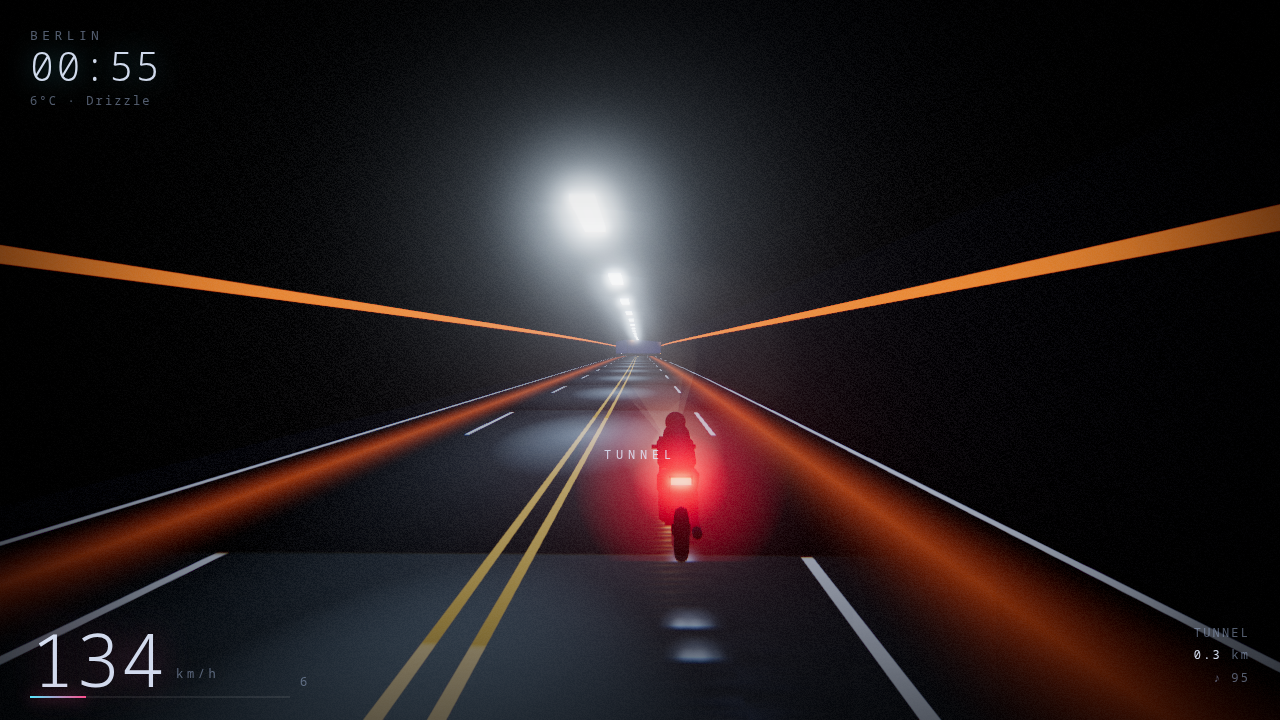
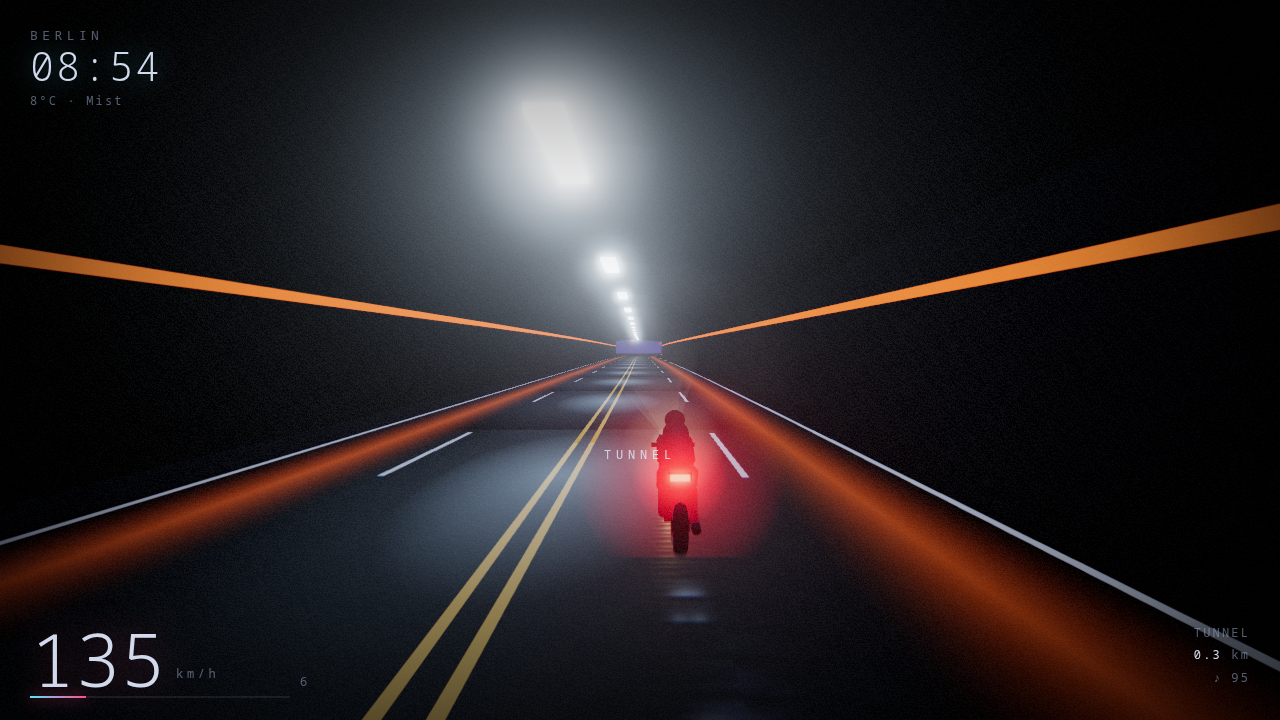
Fixes

diff --git a/src/bike.js b/src/bike.js
@@ -118,12 +118,18 @@ export class Bike {
     const torso = add(new THREE.CapsuleGeometry(0.17, 0.34, 4, 10), rider, 0, 1.13, 0.24, -0.62);
     torso.scale.set(1, 1, 0.8);
     this.head = add(new THREE.SphereGeometry(0.135, 12, 10), rider, 0, 1.4, -0.06);
-    add(new THREE.SphereGeometry(0.118, 12, 10), visor, 0, 1.395, -0.11);
+    const visorMesh = add(new THREE.SphereGeometry(0.118, 12, 10), visor, 0, 1.395, -0.11);
+    const arms = [];
     for (const dx of [-0.19, 0.19]) {
-      add(new THREE.CapsuleGeometry(0.055, 0.42, 3, 6), rider, dx, 1.02, 0.02, -1.15); // arms
+      arms.push(add(new THREE.CapsuleGeometry(0.055, 0.42, 3, 6), rider, dx, 1.02, 0.02, -1.15));
       add(new THREE.CapsuleGeometry(0.085, 0.3, 3, 6), rider, dx * 0.9, 0.74, 0.38, 0.7); // thighs
       add(new THREE.CapsuleGeometry(0.06, 0.26, 3, 6), rider, dx * 0.95, 0.5, 0.5, -0.2); // shins
     }
+
+    /* In first person the camera sits where the rider's head is, so the head
+       and the visor wrap around the lens — you end up looking at the inside of
+       a blue sphere. Legs and the bike itself stay: they are what you'd see. */
+    this.hiddenInFirstPerson = [torso, this.head, visorMesh, ...arms];
 
     /* ── lights ─────────────────────────────────────────── */
     this.headMat = new THREE.MeshBasicMaterial({ color: neon(0xfff0d8, 4), toneMapped: false });
@@ -187,10 +193,20 @@ export class Bike {
     this.spray.frustumCulled = false;
     this.lean.add(this.spray);
 
+    this.firstPerson = false;
     this.leanAngle = 0;
     this.steerAngle = 0;
     this.wheelSpin = 0;
     this.bob = 0;
+  }
+
+  /** Hide the parts of the rider that the camera would otherwise be inside. */
+  setFirstPerson(on) {
+    if (this.firstPerson === on) return;
+    this.firstPerson = on;
+    for (const m of this.hiddenInFirstPerson) m.visible = !on;
+    // and the beam volumes, whose apex is right under the lens
+    for (const b of this.beams) b.visible = !on;
   }
 
   update(dt, st) {

diff --git a/src/props.js b/src/props.js
@@ -162,7 +162,7 @@ function streetLamp(ctx, s, side) {
 
   // pool of light on the wet tarmac, stretched down the road
   const p = ctx.at(s, lat - side * 3.0, 0.02);
-  ctx.pool(LAMP_WARM, 0.5).decal(p, ctx.right(s), ctx.forward(s), 15, 32, 0.02);
+  ctx.pool(LAMP_WARM, 0.42).decal(p, ctx.right(s), ctx.forward(s), 14, 24, 0.02);
 }
 
 function guardrail(ctx, side) {
@@ -253,8 +253,8 @@ function city(ctx) {
         ctx.halo(new THREE.Vector3(c.x, c.y + h - 0.6, c.z), 0xff2a2a, 3.2, 0.5);
       }
 
-      // street-level neon
-      if (rnd() < 0.55) {
+      // street-level neon, and its reflection on the wet road below
+      if (rnd() < 0.5) {
         const hex = NEON_PALETTE[(rnd() * NEON_PALETTE.length) | 0];
         const ny = 3 + rnd() * (Math.min(h, 26) - 3);
         const np = ctx.at(s + (rnd() - 0.5) * 6, lat - side * (depth / 2 + 0.35), 0);
@@ -263,9 +263,14 @@ function city(ctx) {
         const sh = vertical ? 3 + rnd() * 5 : 0.7;
         ctx.emit(hex, 3.2).box(np.x, np.y + ny, np.z, sw, sh, 0.3, yaw);
         ctx.halo(new THREE.Vector3(np.x, np.y + ny, np.z), hex, Math.max(sw, sh) * 2.4, 0.42);
-        // its reflection, smeared across the wet road
-        const rp = ctx.at(s, side * (ROAD_HALF - 1.5 - rnd() * 3), 0.02);
-        ctx.pool(hex, 0.42).decal(rp, ctx.right(s), ctx.forward(s), 9, 30, 0.02);
+        /* Only some of them reach the road. Every sign casting a pool meant
+           half a dozen overlapping on the same stretch, and additive blending
+           piled them into a saturated slab with a hard rim — which reads as a
+           painted rectangle, not as a reflection. */
+        if (rnd() < 0.45) {
+          const rp = ctx.at(s, side * (ROAD_HALF - 1.5 - rnd() * 3), 0.02);
+          ctx.pool(hex, 0.26).decal(rp, ctx.right(s), ctx.forward(s), 8, 22, 0.02);
+        }
       }
       d += w + 2 + rnd() * 10;
     }

diff --git a/src/timeofday.js b/src/timeofday.js
@@ -16,8 +16,8 @@ export function nightHourFromLocal(date = new Date()) {
 
 const KEYS = [
   // t is "hours since 18:00", so 25 = 01:00, 30 = 06:00
-  { t: 18.0, top: 0x0a1030, bot: 0x412454, glow: 0xff6a3d, fog: 0x241a3a, dens: 0.0052, amb: 0.34, moon: 0.25, stars: 0.15, city: 0.55 },
-  { t: 20.0, top: 0x05081c, bot: 0x171438, glow: 0xff3f72, fog: 0x121028, dens: 0.0060, amb: 0.24, moon: 0.45, stars: 0.55, city: 0.9 },
+  { t: 18.0, top: 0x0a1030, bot: 0x412454, glow: 0xe0663f, fog: 0x241a3a, dens: 0.0052, amb: 0.34, moon: 0.25, stars: 0.15, city: 0.55 },
+  { t: 20.0, top: 0x05081c, bot: 0x171438, glow: 0xd4436b, fog: 0x121028, dens: 0.0060, amb: 0.24, moon: 0.45, stars: 0.55, city: 0.9 },
   { t: 22.0, top: 0x03040e, bot: 0x0a0c20, glow: 0x3a2f6e, fog: 0x080a18, dens: 0.0066, amb: 0.18, moon: 0.7, stars: 0.9, city: 1.0 },
   { t: 25.0, top: 0x01020a, bot: 0x050714, glow: 0x1b1f45, fog: 0x04050e, dens: 0.0072, amb: 0.13, moon: 0.85, stars: 1.0, city: 0.75 },
   { t: 28.0, top: 0x02040f, bot: 0x0a1026, glow: 0x27356c, fog: 0x070a18, dens: 0.0068, amb: 0.16, moon: 0.6, stars: 0.8, city: 0.5 },

diff --git a/src/main.js b/src/main.js
@@ -267,7 +267,10 @@ function drive(dt, c) {
   /* the corner throws you toward the outside line */
   const k = road.curvature(state.s);
   state.lat -= k * state.v * state.v * 0.16 * dt;
-  state.lat = clamp(state.lat, -12.5, 12.5);
+  /* You can put a wheel on the verge, but not drive out across the field: the
+     bike rides at road height and the ground beside it is a metre lower, so
+     far off the tarmac it visibly floats. The drag out here does the rest. */
+  state.lat = clamp(state.lat, -9.6, 9.6);
 
   const ds = state.v * dt;
   state.s += ds;
@@ -487,6 +490,7 @@ function frame() {
   const p = road.poseAt(state.s);
   bike.setPose(tmpA, p.h, p.pitch);
   const offRoad = Math.abs(state.lat) > ROAD_HALF + SHOULDER;
+  bike.setFirstPerson(state.camMode === 3 && !photo.active);
   bike.update(simDt, {
     speed: state.v,
     steer: state.steer,

diff --git a/src/assets.js b/src/assets.js
@@ -173,7 +173,9 @@ export function assets() {
     // a touch of self-illumination so building masses read against the sky
     dark: new THREE.MeshStandardMaterial({
       color: 0x090a10, roughness: 0.85, metalness: 0.25,
-      emissive: 0x080b16, emissiveIntensity: 1, envMapIntensity: 0.35,
+      // low enough that walls stay silhouettes: at higher values a flat face
+      // picks up the whole sky and reads as an untextured purple panel
+      emissive: 0x080b16, emissiveIntensity: 1, envMapIntensity: 0.16,
     }),
     foliage: new THREE.MeshStandardMaterial({ color: 0x080f0d, roughness: 1.0, metalness: 0.0 }),
     water: new THREE.MeshStandardMaterial({ color: 0x02030a, roughness: 0.08, metalness: 1.0 }),
